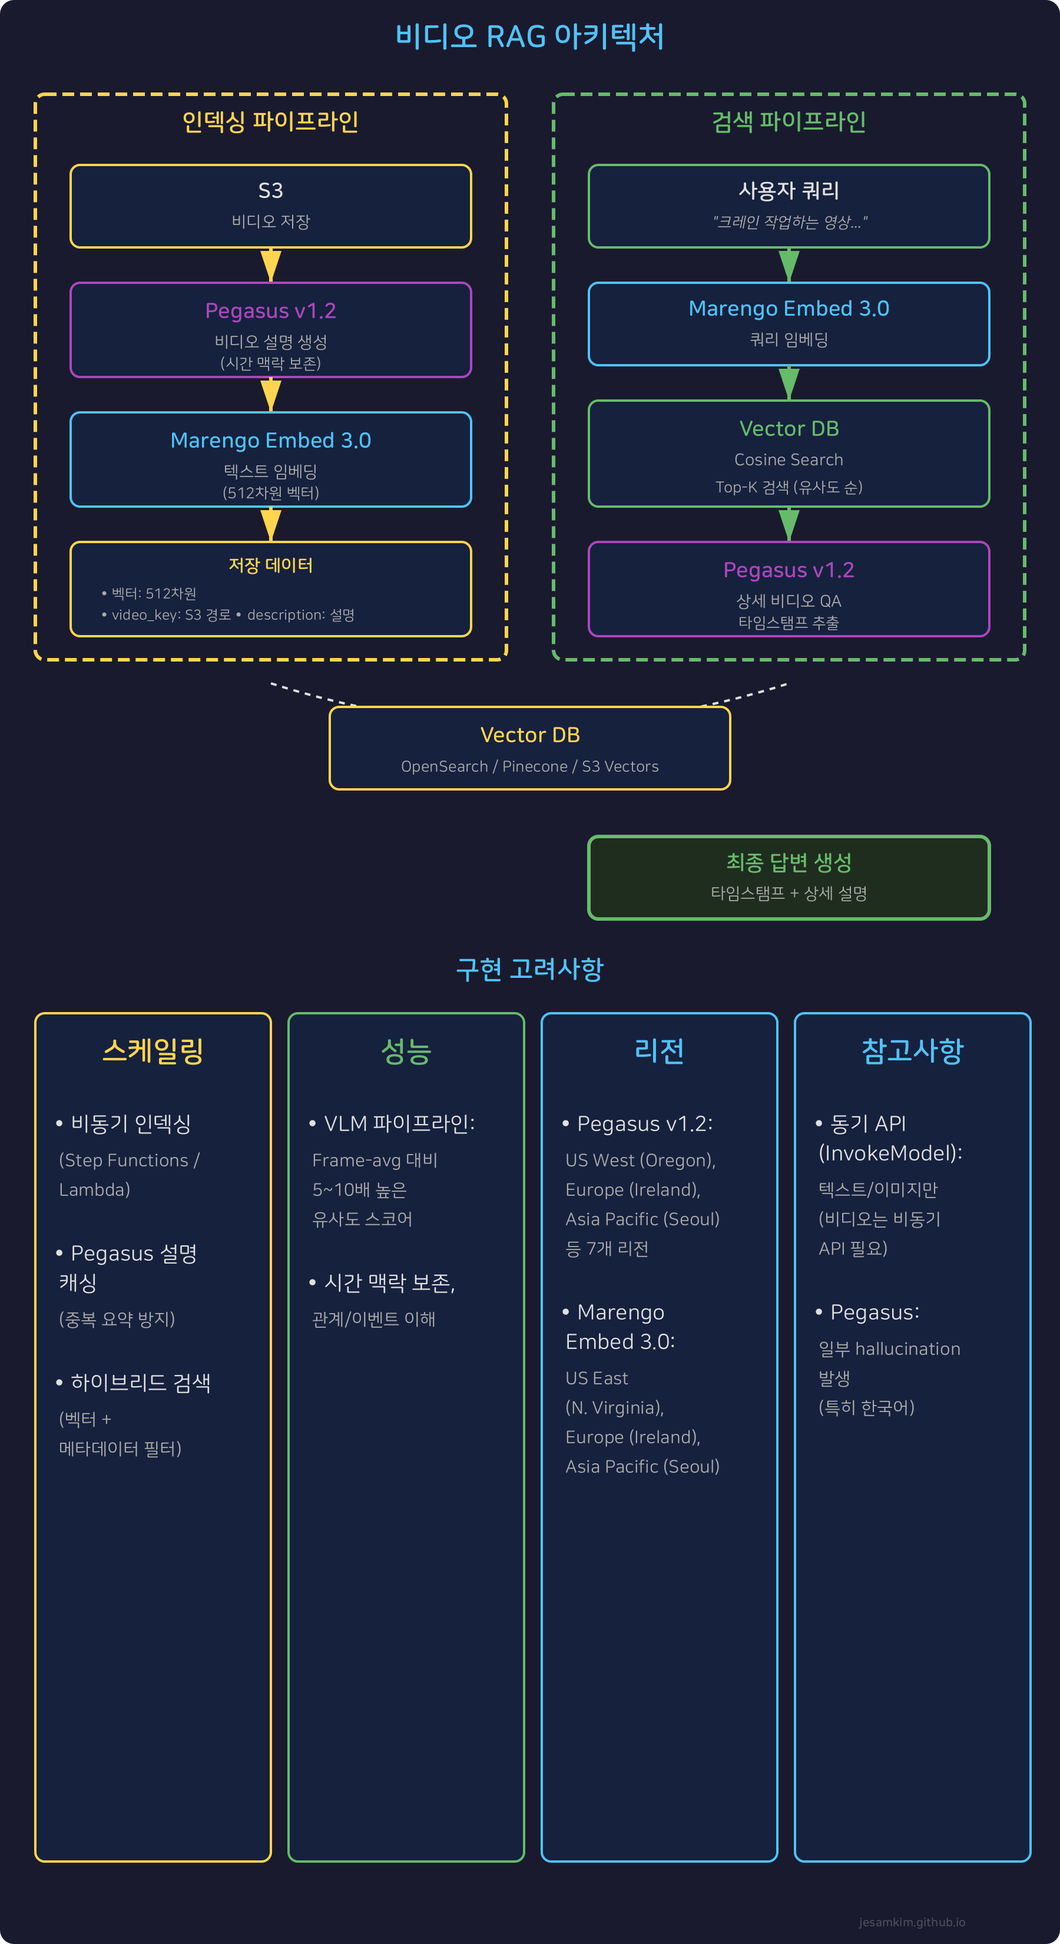
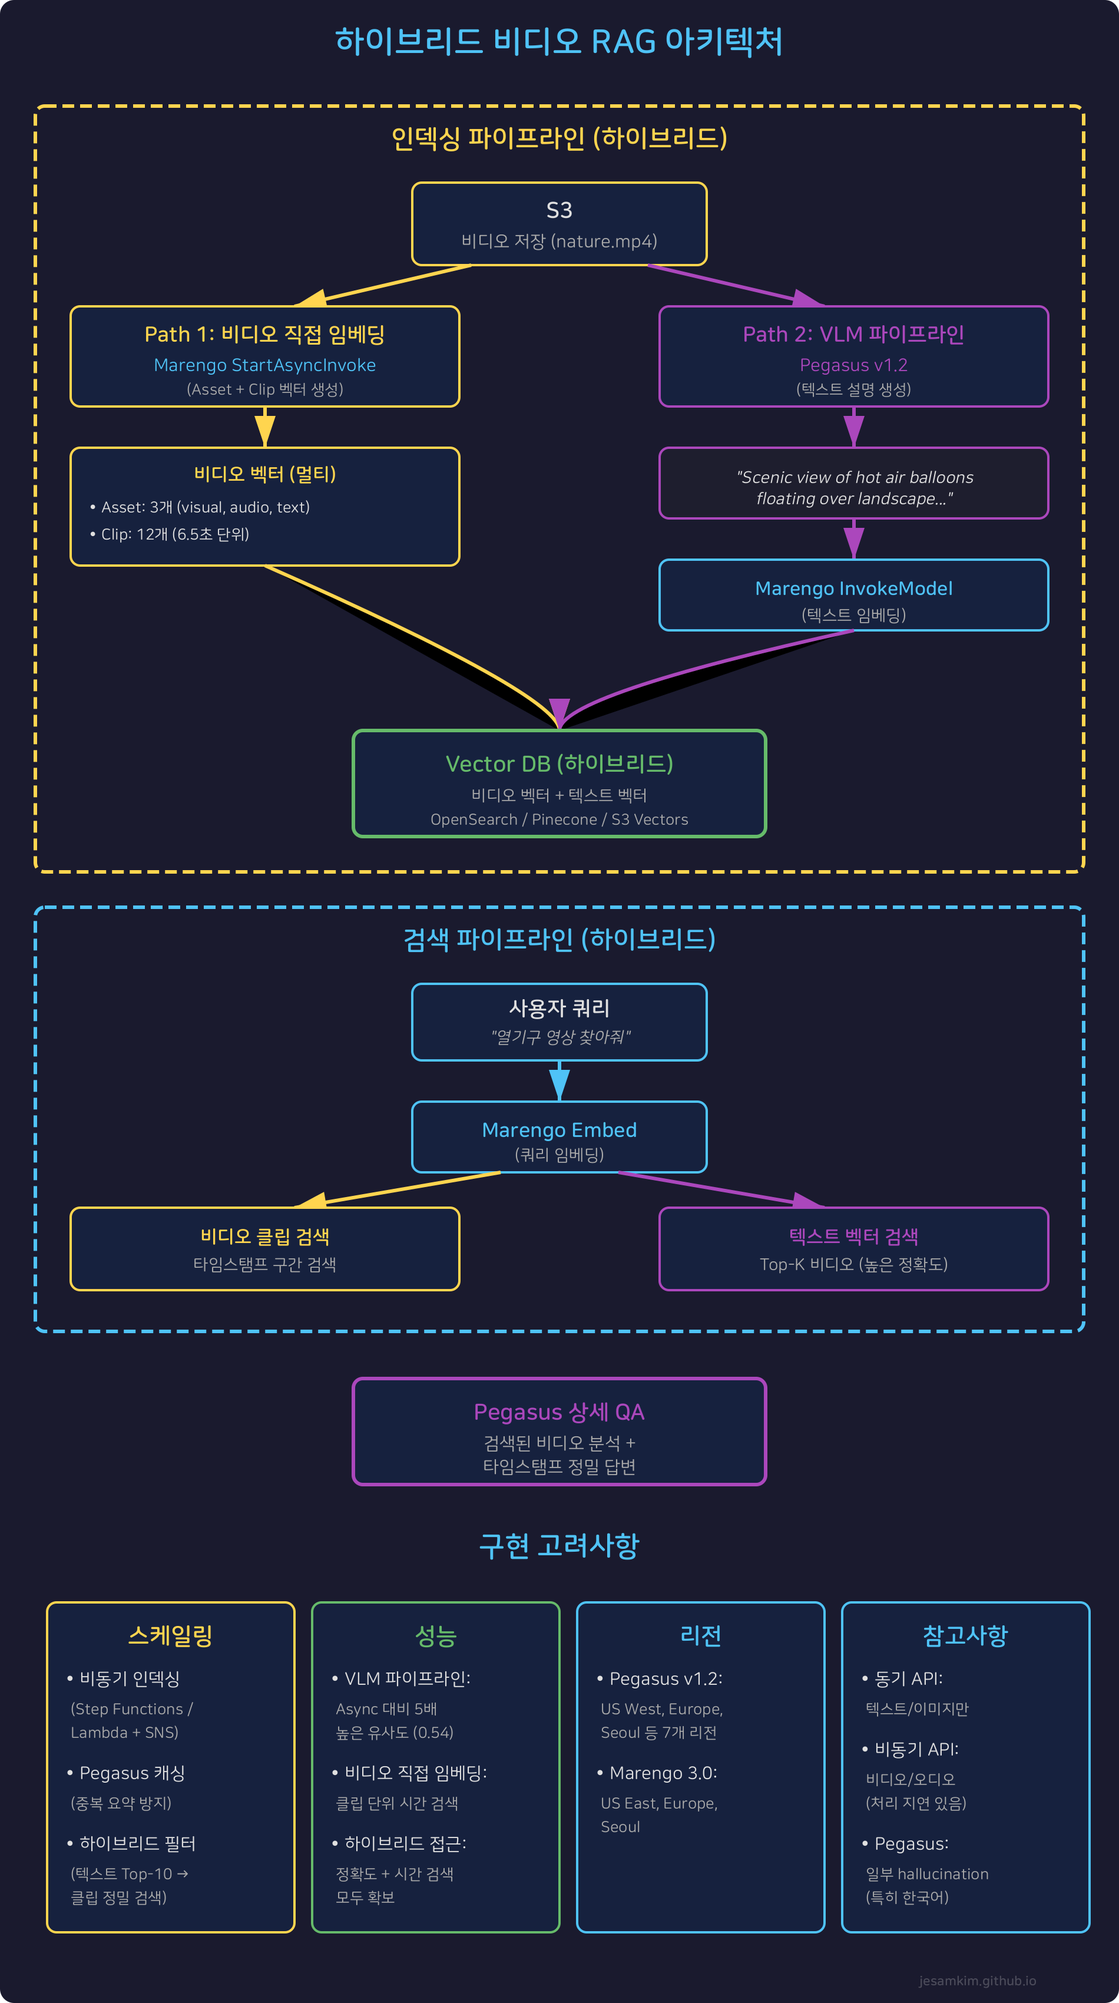
feat: major rewrite - Frame-avg → Async Video Embed, new experiment data, all 4 images regenerated
- Title: 비디오 직접 임베딩 vs VLM 파이프라인
- New comparison: Async Video Embed (StartAsyncInvoke) vs Pegasus+Marengo
- New data: Async avg 0.100, Pegasus+Marengo avg 0.542
- Added clip-level temporal search results
- Architecture: hybrid approach (both async embed + text embed)
- Image 1: new two-approaches diagram
- Image 2: new bar chart (fixed title overlap)
- Image 3: new video-to-video similarity matrix (0.60-0.63)
- Image 4: hybrid architecture diagram

diff --git a/content/posts/2026-03-13-video-rag-pipeline-frame-embedding-vs-vlm.md b/content/posts/2026-03-13-video-rag-pipeline-frame-embedding-vs-vlm.md
@@ -1,10 +1,10 @@
 ---
-title: "프레임 임베딩 vs 비디오 언어 모델: 비디오 RAG 파이프라인, 어떻게 만들어야 할까"
+title: "비디오 직접 임베딩 vs VLM 파이프라인: 비디오 RAG, 어떤 접근법이 더 나을까"
 date: 2026-03-13T10:00:00+09:00
 author: "Jesam Kim"
 categories: ["AI/ML 기술 심층분석"]
-tags: ["Video RAG", "Twelve Labs", "Amazon Bedrock", "Pegasus", "Marengo", "Video Understanding", "Embedding"]
-description: "비디오 RAG를 구축할 때 프레임 임베딩과 비디오 언어 모델 기반 파이프라인의 성능 차이를 실험으로 비교합니다. Twelve Labs Pegasus v1.2와 Marengo Embed 3.0을 Amazon Bedrock에서 테스트한 결과, VLM 기반 파이프라인이 5~10배 높은 유사도 스코어를 보여줍니다."
+tags: ["Video RAG", "Twelve Labs", "Amazon Bedrock", "Pegasus", "Marengo", "Video Understanding", "Embedding", "Async Embedding"]
+description: "비디오 RAG를 구축할 때 비디오 직접 임베딩과 VLM 파이프라인의 성능 차이를 실험으로 비교합니다. Twelve Labs Marengo의 비동기 비디오 임베딩과 Pegasus+Marengo VLM 파이프라인을 Amazon Bedrock에서 테스트한 결과, VLM 파이프라인이 5배 높은 유사도 스코어를 보여주지만 비디오 직접 임베딩도 클립 단위 시간 검색에서 강점을 보입니다."
 cover:
   image: "images/cover-video-rag-pipeline.png"
 ---
@@ -47,35 +47,47 @@ cover:
 
 비디오 RAG를 구축하려면, 비디오를 벡터로 변환해야 합니다. 두 가지 접근법이 있습니다.
 
-![프레임 임베딩 vs VLM 파이프라인 비교 다이어그램](/ai-tech-blog/images/video-rag-two-approaches.png)
+![비디오 직접 임베딩 vs VLM 파이프라인 비교 다이어그램](/ai-tech-blog/images/video-rag-two-approaches.png)
 
-### 접근법 A: 프레임 임베딩 (Frame-level Embedding)
+### 접근법 A: 비디오 직접 임베딩 (Async Video Embedding)
 
-가장 단순한 방법은 비디오에서 N개의 프레임을 추출하고, 각 프레임을 이미지 임베딩 모델로 변환한 뒤, 벡터들의 <strong>평균</strong>을 구하는 것입니다.
+Marengo Embed 3.0의 StartAsyncInvoke API를 사용해 비디오를 <strong>직접 임베딩</strong>하는 방식입니다.
+
+<strong>동작 방식:</strong>
+- 비디오 파일을 S3에 업로드하고, StartAsyncInvoke API를 호출합니다
+- Marengo가 비디오 전체를 분석해 <strong>멀티모달 벡터</strong>를 생성합니다
+- <strong>Asset-level</strong>: 비디오 전체에 대한 visual, audio, transcription 벡터 (3개)
+- <strong>Clip-level</strong>: 약 6.5초 단위 세그먼트별 벡터 (영상당 9~18개)
+- 최대 4시간/6GB 비디오 지원
 
 <strong>장점:</strong>
-- 구현이 단순합니다
-- 기존 이미지 임베딩 인프라를 재사용할 수 있습니다
+- <strong>클립 단위 시간 검색</strong>이 가능합니다. "사람이 제스처를 하는 구간"을 타임스탬프로 정확히 검색할 수 있습니다
+- 오디오와 대화를 반영합니다 (audio modality 벡터)
+- 단일 API 호출로 완료되어 구현이 단순합니다
 
 <strong>단점:</strong>
-- <strong>시간적 맥락이 소실</strong>됩니다. "사람이 문을 열고 들어온다"와 "사람이 문을 닫고 나간다"는 프레임 평균으로는 구분하기 어렵습니다
-- 오디오와 대화를 무시합니다
-- 프레임 간 의미가 희석됩니다. 서로 다른 장면의 프레임들을 평균내면, 의미적으로 중심점이 애매해집니다
-
-<strong>이론적 분석:</strong> 벡터 평균은 기하학적 중심점을 계산합니다. 예를 들어 "열기구" 프레임(v<sub>1</sub>)과 "사람 대화" 프레임(v<sub>2</sub>)의 평균 (v<sub>1</sub> + v<sub>2</sub>) / 2는 두 의미의 중간 어딘가를 가리키지만, 비디오의 실제 의미를 대표하지 못할 수 있습니다.
+- <strong>절대 유사도 스코어가 낮습니다</strong> (0.07~0.15 수준)
+- 비동기 API이므로 완료까지 수십 초 소요됩니다
+- 텍스트 설명을 재사용할 수 없습니다
 
 ### 접근법 B: VLM(Video Language Model) 기반 파이프라인
 
-비디오 전체를 Video Language Model에 입력하고, 텍스트 설명을 생성한 뒤, 그 텍스트를 임베딩하는 방식입니다.
+비디오 전체를 Pegasus v1.2에 입력해 텍스트 설명을 생성한 뒤, 그 텍스트를 Marengo Embed 3.0으로 임베딩하는 방식입니다.
+
+<strong>동작 방식:</strong>
+1. Pegasus v1.2가 비디오를 분석해 자연어 설명을 생성합니다
+2. 생성된 텍스트를 Marengo Embed 3.0의 InvokeModel(동기 API)로 임베딩합니다
+3. 단일 512차원 벡터를 얻습니다
 
 <strong>장점:</strong>
-- <strong>시간적 맥락과 관계를 포착</strong>합니다. "처음에는 A가 일어나고, 그 다음 B가 일어난다"는 인과 관계를 이해합니다
-- 오디오와 대화를 반영할 수 있습니다
-- 이벤트와 행동을 자연어로 표현합니다
+- <strong>높은 유사도 스코어</strong> (0.46~0.64 수준, 비디오 직접 임베딩 대비 5배)
+- 시간적 맥락과 인과 관계를 자연어로 표현합니다
+- 텍스트 설명을 캐싱해 재사용할 수 있습니다
 
 <strong>단점:</strong>
+- 2단계 API 호출이 필요합니다 (Pegasus → Marengo)
+- 클립 단위 시간 검색이 불가능합니다
 - 추가 추론 비용이 발생합니다
-- 파이프라인이 복잡해집니다
 
 실험을 통해 두 접근법의 성능 차이를 비교해 보겠습니다.
 
@@ -107,13 +119,21 @@ cover:
 
 ### Marengo Embed 3.0 (멀티모달 임베딩)
 
-[Marengo Embed 3.0](https://docs.aws.amazon.com/bedrock/latest/userguide/model-parameters-marengo.html)은 512차원 벡터를 출력하는 멀티모달 임베딩 모델입니다.
+[Marengo Embed 3.0](https://docs.aws.amazon.com/bedrock/latest/userguide/model-parameters-marengo-3.html)은 512차원 벡터를 출력하는 멀티모달 임베딩 모델입니다.
 
-<strong>입력 모달리티:</strong> InvokeModel(동기 API)로는 텍스트와 이미지를, StartAsyncInvoke(비동기 API)로는 비디오, 오디오, 이미지, 텍스트를 모두 임베딩할 수 있습니다. 비동기 API를 사용하면 최대 4시간/6GB 비디오까지 처리 가능합니다.
+<strong>입력 모달리티:</strong>
+- <strong>InvokeModel (동기 API):</strong> 텍스트, 이미지를 즉시 임베딩합니다
+- <strong>StartAsyncInvoke (비동기 API):</strong> 비디오, 오디오, 이미지, 텍스트를 모두 임베딩할 수 있습니다. 최대 4시간/6GB 비디오까지 처리 가능합니다
+
+<strong>비디오 임베딩 출력:</strong>
+- Asset-level: 비디오 전체에 대한 visual, audio, transcription 모달리티별 벡터 (3개)
+- Clip-level: 약 6.5초 단위 세그먼트별로 3개 모달리티 벡터 생성
+- 예: 19.3초 비디오 → asset 3개 + clip 12개 = 총 15개 벡터
 
 <strong>Bedrock 설정:</strong>
 - Inference Profile: `us.twelvelabs.marengo-embed-3-0-v1:0`
 - 리전: US East (N. Virginia), Europe (Ireland), Asia Pacific (Seoul)
+- [파라미터 문서](https://docs.aws.amazon.com/bedrock/latest/userguide/model-parameters-marengo-3.html)
 
 ## 5. 실전 실험: Bedrock에서 직접 비교해 보니
 
@@ -144,14 +164,14 @@ cover:
 
 두 가지 방식으로 비디오 임베딩을 생성하고, 쿼리와의 유사도를 비교했습니다.
 
-<strong>Frame-avg:</strong>
-1. 비디오에서 4개 프레임 추출
-2. 각 프레임을 Marengo Embed 3.0으로 이미지 임베딩
-3. 4개 벡터의 평균 계산
+<strong>Async Video Embed:</strong>
+1. 비디오를 S3에 업로드
+2. StartAsyncInvoke API로 Marengo Embed 3.0 호출
+3. Asset-level visual 벡터를 사용 (비디오 전체의 시각적 특징)
 
 <strong>Pegasus+Marengo:</strong>
 1. Pegasus v1.2로 비디오 전체를 텍스트 설명으로 변환
-2. 텍스트를 Marengo Embed 3.0으로 임베딩
+2. 텍스트를 Marengo Embed 3.0으로 임베딩 (동기 API)
 
 ### 결과 데이터
 
@@ -159,12 +179,12 @@ cover:
 
 | 쿼리 | 방식 | nature | city | cooking |
 |------|------|--------|------|---------|
-| "hot air balloons in cappadocia" | Frame-avg | 0.043 | -0.051 | -0.058 |
-|  | Pegasus+Marengo | <strong>0.421</strong> | 0.176 | 0.117 |
-| "people having conversation outdoors" | Frame-avg | 0.006 | 0.069 | -0.028 |
-|  | Pegasus+Marengo | 0.290 | <strong>0.616</strong> | 0.158 |
-| "science experiment in lab" | Frame-avg | -0.032 | -0.043 | 0.068 |
-|  | Pegasus+Marengo | 0.222 | 0.254 | <strong>0.562</strong> |
+| "hot air balloons in cappadocia" | Async Video Embed | <strong>0.135</strong> | 0.005 | -0.070 |
+|  | Pegasus+Marengo | <strong>0.456</strong> | 0.176 | 0.117 |
+| "people having conversation outdoors" | Async Video Embed | -0.022 | <strong>0.067</strong> | -0.075 |
+|  | Pegasus+Marengo | 0.290 | <strong>0.636</strong> | 0.158 |
+| "science experiment in lab" | Async Video Embed | -0.083 | -0.066 | <strong>0.099</strong> |
+|  | Pegasus+Marengo | 0.222 | 0.254 | <strong>0.534</strong> |
 
 ![파이프라인 유사도 비교 차트](/ai-tech-blog/images/video-rag-pipeline-comparison.png)
 
@@ -172,69 +192,93 @@ cover:
 
 1. <strong>두 방식 모두 정확한 1위 매칭</strong>을 했습니다(3/3). 즉, "열기구" 쿼리는 nature 비디오를, "대화" 쿼리는 city 비디오를, "실험" 쿼리는 cooking 비디오를 각각 최고 점수로 검색했습니다.
 
-2. 하지만 <strong>마진이 극적으로 다릅니다</strong>. Frame-avg의 최고 스코어는 0.069인 반면, Pegasus+Marengo는 0.616으로 <strong>약 9배 높습니다</strong>.
+2. 하지만 <strong>절대 스코어가 극적으로 다릅니다</strong>. Async Video Embed의 평균 스코어는 0.100인 반면, Pegasus+Marengo는 0.542로 <strong>약 5배 높습니다</strong>.
 
-3. Frame-avg는 음수 스코어가 많습니다. 이는 프레임 평균 벡터가 쿼리와 거의 직교하거나 반대 방향을 가리킨다는 의미입니다.
+3. Pegasus+Marengo는 모든 쿼리에서 양수 스코어를 보이지만, Async Video Embed는 음수 스코어가 많습니다. 이는 비디오 시각적 벡터가 텍스트 쿼리와 직접 비교될 때 의미적 정렬이 약하다는 것을 의미합니다.
 
-### 프레임 간 유사도 문제
+### 클립 단위 시간 검색
 
-Frame-avg 방식의 근본적인 문제는 <strong>프레임끼리 너무 비슷하다</strong>는 것입니다.
+Async Video Embed의 강점은 <strong>클립 단위 검색</strong>입니다. city.mp4의 클립별 유사도를 보면:
 
-![프레임 간 유사도 히트맵](/ai-tech-blog/images/video-rag-similarity-matrix.png)
+| 쿼리 | 타임스탬프 | 유사도 |
+|------|-----------|--------|
+| "people gesturing and talking" | 13.0-19.2초 | 0.107 |
+|  | 6.5-13.0초 | 0.083 |
+|  | 0-6.5초 | 0.063 |
 
-3개 비디오에서 추출한 12개 프레임의 cosine similarity를 계산하면, 대부분 0.74~0.79 범위에 분포합니다. 즉, <strong>서로 다른 비디오의 프레임끼리도 유사도가 높습니다</strong>.
+실제로 13.0-19.2초 구간에서 사람들이 손으로 제스처를 하며 대화하는 장면이 가장 두드러집니다. <strong>클립 단위 벡터가 시간적 세그먼트를 정확히 찾아냅니다</strong>.
 
-이는 이미지 임베딩이 저수준 시각적 특징(색상, 질감, 구도)에 민감하기 때문입니다. "열기구"와 "대화"는 의미적으로 전혀 다르지만, 프레임 레벨에서는 "야외 풍경"이라는 공통점 때문에 비슷하게 보입니다.
+### 비디오 간 유사도 개선
 
-결국 프레임 평균으로는 <strong>의미적 차이를 구분하기 어렵습니다</strong>.
+3개 비디오의 asset-level visual 벡터끼리 cosine similarity를 계산하면:
 
-## 6. 비디오 RAG 파이프라인 아키텍처: 권장 패턴
+![비디오 간 유사도 행렬](/ai-tech-blog/images/video-rag-similarity-matrix.png)
 
-실험 결과를 바탕으로, 권장하는 비디오 RAG 아키텍처는 다음과 같습니다.
+| | nature | city | cooking |
+|---|--------|------|---------|
+| nature | 1.00 | 0.63 | 0.60 |
+| city | 0.63 | 1.00 | 0.62 |
+| cooking | 0.60 | 0.62 | 1.00 |
+
+비디오 직접 임베딩은 <strong>0.60~0.63 범위</strong>로, 프레임 평균 방식(0.74~0.79)보다 의미적 구분이 개선되었습니다. 하지만 여전히 절대 스코어가 낮아, 텍스트 쿼리와의 직접 매칭에는 한계가 있습니다.
+
+### 종합 비교
+
+| 방식 | 평균 스코어 | 장점 | 단점 |
+|-----|-----------|------|------|
+| Async Video Embed | 0.100 | 클립 단위 시간 검색, 단일 API | 낮은 절대 스코어 |
+| Pegasus+Marengo | 0.542 | 높은 유사도, 텍스트 재사용 | 2단계 API, 시간 검색 불가 |
+
+## 6. 비디오 RAG 파이프라인 아키텍처: 하이브리드 접근법
+
+실험 결과를 바탕으로, <strong>두 방식을 모두 활용하는 하이브리드 아키텍처</strong>를 권장합니다.
 
 ![비디오 RAG 아키텍처 다이어그램](/ai-tech-blog/images/video-rag-architecture.png)
 
 ### Phase 1: 인덱싱
 
 1. <strong>비디오 저장:</strong> S3에 비디오를 업로드합니다
-2. <strong>텍스트 설명 생성:</strong> Pegasus v1.2로 비디오 전체를 텍스트로 요약합니다
-3. <strong>임베딩 생성:</strong> Marengo Embed 3.0으로 텍스트를 512차원 벡터로 변환합니다
-4. <strong>저장:</strong> 벡터와 메타데이터(video_key, description, timestamps)를 Vector DB에 저장합니다
+2. <strong>비동기 비디오 임베딩:</strong> StartAsyncInvoke로 Marengo가 asset + clip 벡터를 생성합니다
+3. <strong>텍스트 설명 생성:</strong> Pegasus v1.2로 비디오 전체를 텍스트로 요약합니다
+4. <strong>텍스트 임베딩:</strong> Marengo의 동기 API로 텍스트를 임베딩합니다
+5. <strong>저장:</strong> 두 종류의 벡터(비디오 + 텍스트)와 메타데이터를 Vector DB에 저장합니다
 
 ### Phase 2: 검색
 
-1. <strong>쿼리 임베딩:</strong> 사용자 쿼리를 Marengo Embed 3.0으로 임베딩합니다
-2. <strong>벡터 검색:</strong> Vector DB에서 cosine similarity 기반으로 Top-K 비디오를 검색합니다
-3. <strong>메타데이터 반환:</strong> 검색된 비디오의 메타데이터(S3 key, 설명)를 가져옵니다
+1. <strong>쿼리 임베딩:</strong> 사용자 쿼리를 Marengo로 임베딩합니다
+2. <strong>하이브리드 검색:</strong>
+   - 텍스트 임베딩으로 Top-K 비디오 검색 (높은 정확도)
+   - 비디오 임베딩으로 클립 단위 시간 검색 (타임스탬프)
+3. <strong>메타데이터 반환:</strong> 검색된 비디오의 메타데이터와 관련 구간을 가져옵니다
 
 ### Phase 3: 생성
 
 1. <strong>상세 QA:</strong> 검색된 비디오를 Pegasus v1.2에 다시 입력하고, 사용자 쿼리에 대한 상세 답변을 생성합니다
-2. <strong>타임스탬프 제공:</strong> 답변과 함께 관련 장면의 타임스탬프를 제공합니다
+2. <strong>타임스탬프 제공:</strong> 답변과 함께 클립 단위 검색 결과에서 얻은 정확한 타임스탬프를 제공합니다
 
 ### AWS 서비스 구성
 
 - <strong>S3:</strong> 비디오 저장
-- <strong>Amazon Bedrock:</strong> Pegasus v1.2 + Marengo Embed 3.0
-- <strong>Vector DB:</strong> Amazon OpenSearch Service 또는 Pinecone
+- <strong>Amazon Bedrock:</strong> Pegasus v1.2 + Marengo Embed 3.0 (동기 + 비동기 API)
+- <strong>Vector DB:</strong> Amazon OpenSearch Service, Pinecone, 또는 S3 Vectors
 
 [AWS 케이스 스터디](https://aws.amazon.com/bedrock/twelvelabs/)에서는 TwelveLabs와 S3 Vectors 통합이 소개되어 있습니다. S3 Vectors를 사용하면 별도의 Vector DB 없이 S3에서 직접 벡터 검색이 가능합니다.
 
 ### 스케일링 고려사항
 
-- <strong>비동기 인덱싱:</strong> 수천 개의 비디오를 인덱싱할 때는 비동기 워크플로우(Step Functions 등)를 사용합니다
-- <strong>캐시 전략:</strong> 자주 검색되는 비디오는 Pegasus 응답을 캐싱해 비용을 절감합니다
-- <strong>메타데이터 필터링:</strong> 날짜, 카테고리 등 메타데이터로 사전 필터링하면 검색 정확도가 향상됩니다
+- <strong>비동기 인덱싱:</strong> 수천 개의 비디오를 인덱싱할 때는 비동기 워크플로우(Step Functions 등)를 사용합니다. StartAsyncInvoke 완료 시 SNS 알림을 받아 다음 단계를 트리거합니다
+- <strong>캐시 전략:</strong> Pegasus 텍스트 설명을 S3 또는 DynamoDB에 캐싱해 재사용합니다
+- <strong>하이브리드 필터링:</strong> 먼저 텍스트 임베딩으로 Top-10을 찾고, 그 중에서 비디오 임베딩으로 클립 구간을 정밀 검색합니다
 
 ## 7. 한계와 전망
 
 ### 한계점
 
-1. <strong>동기 API의 모달리티 제한:</strong> Bedrock InvokeModel(동기 API)에서는 텍스트와 이미지만 임베딩할 수 있습니다. 비디오와 오디오 임베딩은 StartAsyncInvoke(비동기 API)를 사용해야 하므로, 실시간 비디오 임베딩이 필요한 경우 파이프라인 설계에 유의해야 합니다.
+1. <strong>텍스트-비디오 의미 정렬:</strong> 비디오 직접 임베딩의 절대 스코어가 낮아, 텍스트 쿼리와 직접 매칭 시 정확도가 떨어집니다. 텍스트 임베딩을 함께 사용하는 하이브리드 접근이 필요합니다.
 
 2. <strong>Hallucination:</strong> Pegasus가 한국어 요약 시 일부 환각을 생성합니다. 예를 들어 "페가수스 공원" 같은 존재하지 않는 장소를 언급하는 경우가 있습니다.
 
-3. <strong>리전 간 구성:</strong> Pegasus v1.2와 Marengo Embed 3.0은 서울 리전을 포함한 다수의 리전에서 사용 가능하지만, 두 모델의 지원 리전이 완전히 동일하지는 않으므로 파이프라인 구성 시 리전 배치를 고려해야 합니다.
+3. <strong>비동기 처리 지연:</strong> StartAsyncInvoke는 비디오 길이에 따라 수십 초에서 수 분이 소요되므로, 실시간 인덱싱이 필요한 경우에는 부적합합니다.
 
 ### 전망
 
@@ -248,7 +292,9 @@ Frame-avg 방식의 근본적인 문제는 <strong>프레임끼리 너무 비슷
 
 ## 결론
 
-비디오 RAG를 구축할 때, <strong>프레임 임베딩 평균 방식</strong>은 구현이 간단하지만 시간적 맥락을 잃고 의미적 구분이 약합니다. 반면 <strong>VLM 기반 파이프라인</strong>(Pegasus + Marengo)은 5~10배 높은 유사도 스코어를 달성하며, 비디오의 의미를 훨씬 잘 포착합니다.
+비디오 RAG를 구축할 때, <strong>비디오 직접 임베딩</strong>(Async Video Embed)은 클립 단위 시간 검색에 강점이 있지만 절대 유사도 스코어가 낮습니다. 반면 <strong>VLM 기반 파이프라인</strong>(Pegasus + Marengo)은 5배 높은 유사도 스코어를 달성하며, 텍스트 쿼리와의 의미적 매칭이 우수합니다.
+
+실전에서는 <strong>두 방식을 모두 활용하는 하이브리드 접근</strong>을 권장합니다. 텍스트 임베딩으로 관련 비디오를 찾고, 비디오 임베딩으로 정확한 타임스탬프를 제공하는 것입니다.
 
 Amazon Bedrock에서 Twelve Labs 모델을 사용하면, 복잡한 인프라 구축 없이도 프로덕션 수준의 비디오 RAG를 빠르게 구축할 수 있습니다.
 
